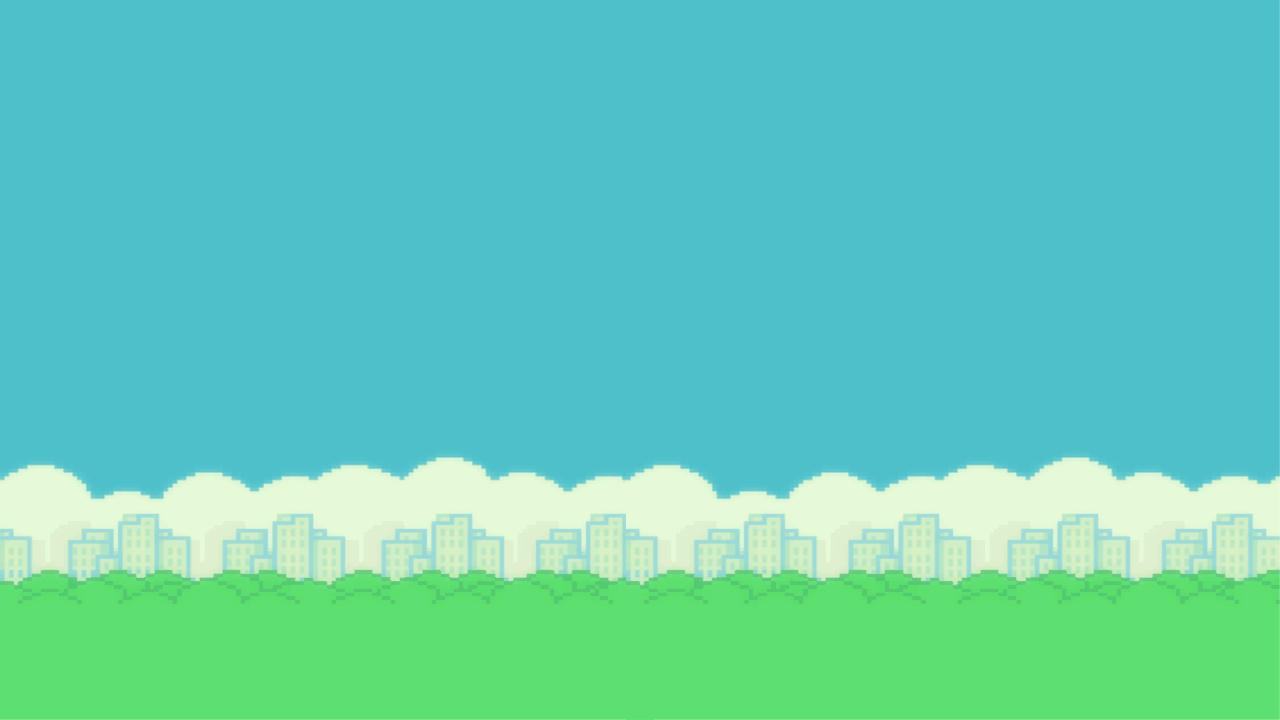
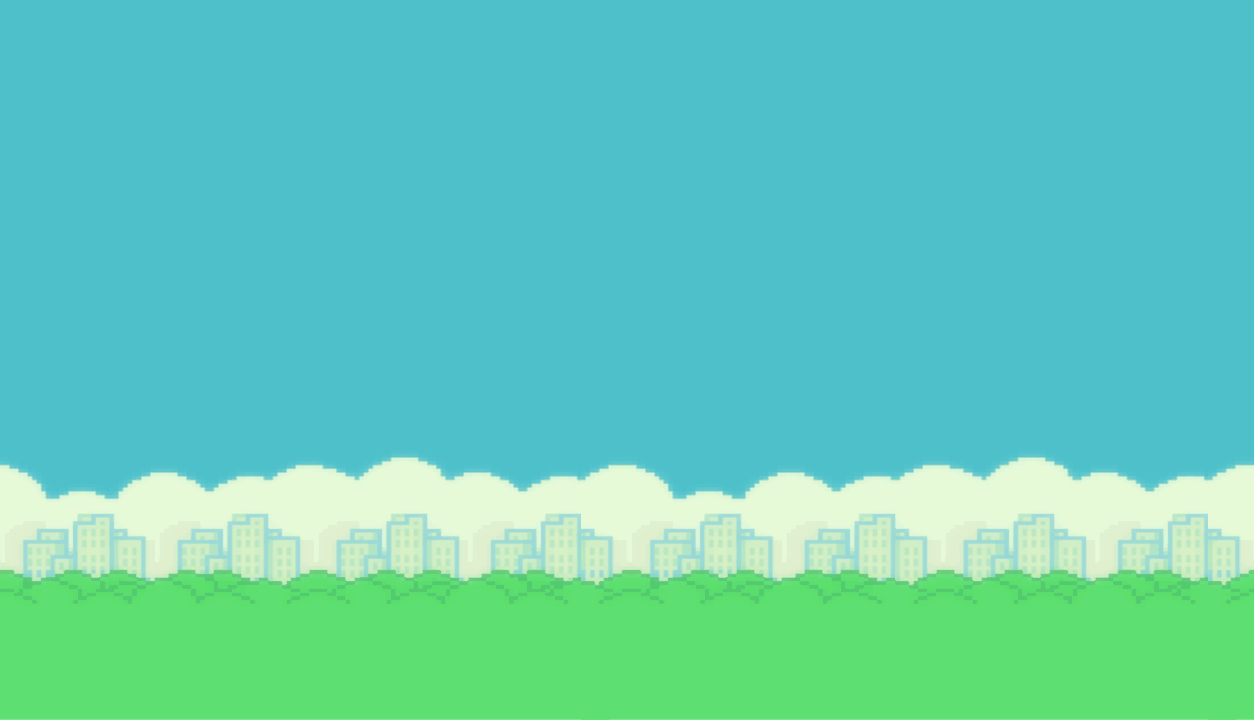
changes changes more changes

Changed region(s): [[0.0, 0.0, 1.0, 0.825]]

diff --git a/src/game/Board.java b/src/game/Board.java
@@ -15,7 +15,7 @@ import java.util.ArrayList;
 public class Board extends JPanel implements ActionListener {
 
     private static final long serialVersionUID = -2469276924387568876L;
-    private Generation gen = new Generation();
+    private static Generation gen = new Generation();
     private int iterationCounter;
     private ArrayList<Pipe> pipes;
     private Ground ground;
@@ -23,12 +23,15 @@ public class Board extends JPanel implements ActionListener {
 
     Board() {
         init();
-        Timer timer = new Timer(0, this);
+        Timer timer = new Timer(10, this);
         timer.start();
     }
 
     private void init() {
         Settings.GENERATION++;
+        if (Settings.MAX_FITNESS % 5000 == 0 && Settings.CROSSOVER_RATE != 0.1) {
+            Settings.CROSSOVER_RATE -= 0.1;
+        }
         pipes = new ArrayList<>();
         pipes.add(new Pipe());
         ground = new Ground();
@@ -54,10 +57,19 @@ public class Board extends JPanel implements ActionListener {
         }
         g.drawString("Fitness: " + gen.getMaxFitness() + "      Generation: " + Settings.GENERATION + "      Anzahl Vögel: " + Settings.ANZAHL_VOEGEL, 10, Settings.WINDOW_HEIGHT - 35);
         g.drawString("Max-Fitness: " + Settings.MAX_FITNESS, 10, Settings.WINDOW_HEIGHT - 48);
+        g.drawString("Score: " + Settings.SCORE / 250, Settings.WINDOW_WIDTH - 75, Settings.WINDOW_HEIGHT - 35);
+    }
+
+    static Generation getGen() {
+        return gen;
     }
 
     @Override
+
     public void actionPerformed(ActionEvent e) {
+        if(Settings.MAX_FITNESS >= 25000){
+            System.exit(0);
+        }
         if (iterationCounter == 80) {
             pipes.add(new Pipe());
         } else if (iterationCounter > 80) {
@@ -72,11 +84,13 @@ public class Board extends JPanel implements ActionListener {
         }
 
         ground.move();
+        background.move();
         for (Bird bird : gen.getBirds()) {
             bird.move();
             double result;
             if (pipes.get(0).getXPos() + pipes.get(0).getPipeWidth() < Settings.BIRD_X_POS) {
                 result = bird.getNetwork().activate(bird.getHeight() - pipes.get(1).getHeight(), pipes.get(1).getXPos() - Settings.BIRD_X_POS);
+                Settings.SCORE++;
 
             } else {
                 result = bird.getNetwork().activate(bird.getHeight() - pipes.get(0).getHeight(), pipes.get(0).getXPos() - Settings.BIRD_X_POS);
@@ -87,10 +101,9 @@ public class Board extends JPanel implements ActionListener {
             if (!bird.isDead()) {
                 bird.checkCollision(pipes.get(0).getCollisionBorders());
                 bird.checkCollision(ground.getCollisionBorders());
-            }
-            if (!bird.isDead()) {
                 bird.addFitness();
             }
+
         }
         if (Settings.ANZAHL_VOEGEL <= 0) {
             Generations.setPrevGeneration(gen.getBirds());

diff --git a/src/neat/NeuralNetwork.java b/src/neat/NeuralNetwork.java
@@ -6,11 +6,13 @@ public class NeuralNetwork {
     private Layer outputLayer;
 
     public NeuralNetwork() {
-        this.inputLayer = new Layer("input");
-        inputLayer.populate(2, 10);
-        this.hiddenLayer = new Layer("hidden");
-        hiddenLayer.populate(10, 1);
-        this.outputLayer = new Layer("output");
+        this.inputLayer = new Layer();
+        inputLayer.populate(3, 10);
+        inputLayer.neurons.get(2).setWert(1);
+        this.hiddenLayer = new Layer();
+        hiddenLayer.populate(11, 1);
+        hiddenLayer.neurons.get(10).setWert(1);
+        this.outputLayer = new Layer();
         outputLayer.populate(1, 0);
     }
 
@@ -28,18 +30,18 @@ public class NeuralNetwork {
         if (this.inputLayer != null) {
             this.inputLayer.neurons.get(0).setWert(heightDiff);
             this.inputLayer.neurons.get(1).setWert(distance);
-        }
 
-        double sum = 0;
-        for (int i = 0; i < this.inputLayer.neurons.get(0).getWeights().size(); i++) {
-            hiddenLayer.neurons.get(i).setWert(activate_ReLU(this.inputLayer.neurons.get(0).getWert() * this.inputLayer.neurons.get(0).getWeights().get(i) +
-                    this.inputLayer.neurons.get(1).getWert() * this.inputLayer.neurons.get(1).getWeights().get(i)));
-        }
-        for (int i = 0; i < this.hiddenLayer.neurons.size(); i++) {
-            sum += hiddenLayer.neurons.get(i).getWert() * hiddenLayer.neurons.get(i).getWeights().get(0);
-        }
-        outputLayer.neurons.get(0).setWert(sigmoid(sum));
 
+            double sum = 0;
+            for (int i = 0; i < this.inputLayer.neurons.get(0).getWeights().size(); i++) {
+                hiddenLayer.neurons.get(i).setWert(activate_ReLU(this.inputLayer.neurons.get(0).getWert() * this.inputLayer.neurons.get(0).getWeights().get(i) +
+                        this.inputLayer.neurons.get(1).getWert() * this.inputLayer.neurons.get(1).getWeights().get(i)));
+            }
+            for (int i = 0; i < this.hiddenLayer.neurons.size(); i++) {
+                sum += hiddenLayer.neurons.get(i).getWert() * hiddenLayer.neurons.get(i).getWeights().get(0);
+            }
+            outputLayer.neurons.get(0).setWert(sigmoid(sum));
+        }
         return outputLayer.neurons.get(0).getWert();
     }
 

diff --git a/src/neat/MySQLConnect.java b/src/neat/MySQLConnect.java
@@ -1,0 +1,50 @@
+package neat;
+
+import java.sql.Connection;
+import java.sql.DriverManager;
+import java.sql.SQLException;
+import java.util.Properties;
+
+public class MySQLConnect {
+    private static final String DATABASE_DRIVER = "com.mysql.jdbc.Driver";
+    private static final String DATABASE_URL = "jdbc:mysql://localhost:3306/flappybird?useSSL=false";
+    private static final String USERNAME = "root";
+    private static final String PASSWORD = "12345";
+    private static final String MAX_POOL = "250";
+
+    private Connection connection;
+    private Properties properties;
+
+    private Properties getProperties() {
+        if (properties == null) {
+            properties = new Properties();
+            properties.setProperty("user", USERNAME);
+            properties.setProperty("password", PASSWORD);
+            properties.setProperty("MaxPooledStatements", MAX_POOL);
+        }
+        return properties;
+    }
+
+    public Connection connect() {
+        if (connection == null) {
+            try {
+                Class.forName(DATABASE_DRIVER);
+                connection = DriverManager.getConnection(DATABASE_URL, getProperties());
+            } catch (ClassNotFoundException | SQLException e) {
+                e.printStackTrace();
+            }
+        }
+        return connection;
+    }
+
+    void disconnect() {
+        if (connection != null) {
+            try {
+                connection.close();
+                connection = null;
+            } catch (SQLException e) {
+                e.printStackTrace();
+            }
+        }
+    }
+}

diff --git a/src/neat/Generation.java b/src/neat/Generation.java
@@ -4,7 +4,6 @@ import game.Bird;
 import game.Settings;
 
 import java.util.ArrayList;
-import java.util.Comparator;
 
 public class Generation {
     private static ArrayList<Bird> birds;
@@ -17,16 +16,12 @@ public class Generation {
     }
 
     private static void sortBirdsFitnessDesc() {
-        birds.sort(new Comparator<Bird>() {
-            @Override
-            public int compare(Bird o1, Bird o2) {
-                return -(o1.getFitness()-o2.getFitness());
-            }
-        });
+        birds.sort((Bird o1, Bird o2) -> -(o1.getFitness()-o2.getFitness()));
     }
 
     public static ArrayList<Bird> generateNewGeneration() {
         Settings.ANZAHL_VOEGEL = Settings.POPULATION;
+        Settings.SCORE = 0;
         ArrayList<Bird> birdNew = new ArrayList<>();
         if (Generations.getPrevGeneration() == null) {
             for (int i = 0; i < Settings.POPULATION; i++) {
@@ -37,7 +32,8 @@ public class Generation {
         sortBirdsFitnessDesc();
         for (int i = 0; i < Math.round(Settings.ELITISM * Settings.POPULATION); i++) {
             if (birdNew.size() < Settings.POPULATION) {
-                birdNew.add(new Bird(birds.get(i).getNetwork()));
+                birds.get(i).reset();
+                birdNew.add(birds.get(i));
             }
         }
 
@@ -49,6 +45,7 @@ public class Generation {
         for(Bird b: birds){
             totalFitness += b.getFitness();
         }
+
         for(Bird b: birds){
             b.setProbability(b.getFitness()/(double)totalFitness);
         }

diff --git a/src/neat/Generations.java b/src/neat/Generations.java
@@ -1,8 +1,10 @@
 package neat;
 
 import game.Bird;
+import game.Settings;
 
 import java.util.ArrayList;
+import java.sql.*;
 
 public class Generations {
     private static ArrayList<Bird> prevGeneration;
@@ -10,9 +12,31 @@ public class Generations {
     static ArrayList<Bird> getPrevGeneration() {
         return prevGeneration;
     }
+    private static MySQLConnect mysqlConnect = new MySQLConnect();
+    private static Connection db = mysqlConnect.connect();
+
+    public static void disconnect(){
+        mysqlConnect.disconnect();
+    }
 
     public static void setPrevGeneration(ArrayList<Bird> prevGeneration) {
         Generations.prevGeneration = prevGeneration;
-    }
 
+        String sql = "INSERT INTO `fitness` (`generation`, `max-fitness`, `highest`, `score`) VALUES (?, ?, ?, ?)";
+
+        try {
+            PreparedStatement statement = db.prepareStatement(sql);
+
+            prevGeneration.sort((Bird o1, Bird o2) -> -(o1.getFitness()-o2.getFitness()));
+
+            statement.setInt(1, Settings.GENERATION );
+            statement.setInt(2, Settings.MAX_FITNESS);
+            statement.setInt(3, prevGeneration.get(0).getFitness());
+            statement.setInt(4, Settings.SCORE/250);
+
+            statement.execute();
+        } catch (SQLException e) {
+            e.printStackTrace();
+        }
+    }
 }

diff --git a/src/game/Background.java b/src/game/Background.java
@@ -8,6 +8,7 @@ import javax.imageio.ImageIO;
 class Background {
 
     private Image image;
+    private int imageOffset;
 
     Background() {
         init();
@@ -15,6 +16,7 @@ class Background {
 
     private void init() {
         loadImage();
+        imageOffset = 0;
     }
 
     private void loadImage() {
@@ -25,7 +27,14 @@ class Background {
         }
     }
 
+    void move() {
+        imageOffset += 1;
+        imageOffset %= image.getWidth(null);
+    }
+
     void draw(Graphics g) {
-        g.drawImage(image, 0, Settings.BACKGROUND_HEIGHT_OFFSET, null);
+        for (int x = -imageOffset; x < Settings.WINDOW_WIDTH; x += image.getWidth(null)) {
+            g.drawImage(image, x, Settings.BACKGROUND_HEIGHT_OFFSET, null);
+        }
     }
 }

diff --git a/src/game/Settings.java b/src/game/Settings.java
@@ -10,12 +10,13 @@ public class Settings {
     static final int GROUND_HEIGHT = 400;
     static final int MOVE_SPEED = 3;
     public static final int POPULATION = 10;
-    static int GENERATION = 0;
+    public static int GENERATION = 0;
     public static final double ELITISM = 0.2;
     public static final double ZUFALL_VERHALTEN = 0.1;
     public static final double MUTATIONS_RATE = 0.1;
-    public static final double MUTATIONS_RANGE = 0.2;
+    public static final double MUTATIONS_RANGE = 0.5;
     public static int ANZAHL_VOEGEL = 0;
-    public static final double CROSSOVER_RATE = 0.5;
-    static int MAX_FITNESS = 0;
+    public static double CROSSOVER_RATE = 0.5;
+    public static int MAX_FITNESS = 0;
+    public static int SCORE = 0;
 }

diff --git a/src/game/Bird.java b/src/game/Bird.java
@@ -34,7 +34,7 @@ public class Bird {
     }
 
     private void init() {
-        height = 250 - (int)(Math.random()*175);
+        height = 250 - (int) (Math.random() * 175);
         velocity = 0;
         birdState = 1;
         loadImages();
@@ -118,6 +118,17 @@ public class Bird {
     private void kill() {
         dead = true;
         Settings.ANZAHL_VOEGEL--;
+    }
+
+    public void reset() {
+        height = 250 - (int) (Math.random() * 175);
+        birdState = 1;
+        fitness = 0;
+        velocity = 0;
+        dead = false;
+        probability = 0;
+        lowProb = 0;
+        highProb = 0;
     }
 
     boolean isDead() {

diff --git a/src/game/Window.java b/src/game/Window.java
@@ -1,5 +1,7 @@
 package game;
 
+import neat.Generations;
+
 import javax.imageio.ImageIO;
 import javax.swing.*;
 import java.io.File;
@@ -27,5 +29,9 @@ public class Window extends JFrame {
 
     public static void main(String[] args) {
         new Window();
+        Runtime.getRuntime().addShutdownHook(new Thread(() -> {
+                Generations.setPrevGeneration(Board.getGen().getBirds());
+                Generations.disconnect();
+        }));
     }
 }

diff --git a/src/neat/Layer.java b/src/neat/Layer.java
@@ -4,11 +4,6 @@ import java.util.ArrayList;
 
 class Layer {
     ArrayList<Neuron> neurons;
-    private String id;
-
-    Layer(String id) {
-        this.id = id;
-    }
 
     void populate(int neurons, int synapse) {
         this.neurons = new ArrayList<>();

diff --git a/src/neat/Neuron.java b/src/neat/Neuron.java
@@ -2,7 +2,7 @@ package neat;
 
 import java.util.ArrayList;
 
-public class Neuron {
+class Neuron {
     private double wert;
     private ArrayList<Double> weights;
 
